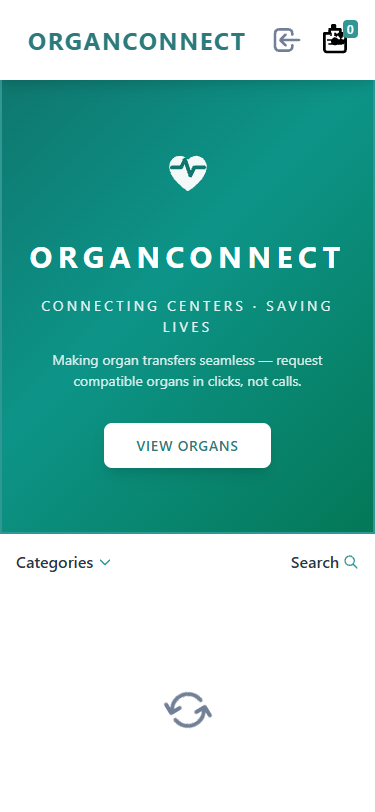
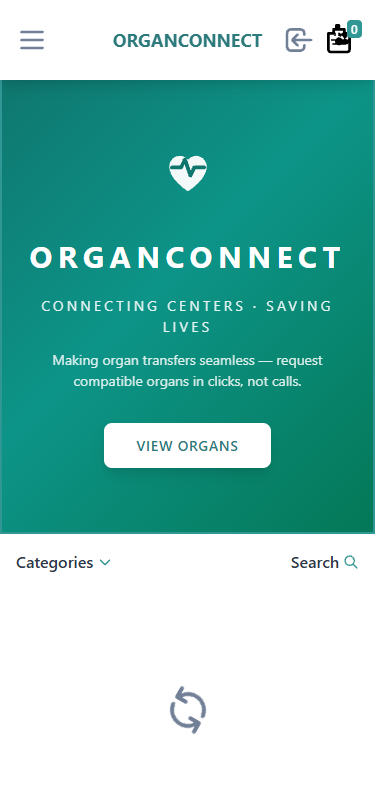
Fix Vercel deployment, API URL fallbacks, and responsive navbar

Changed region(s): [[0.0587, 0.0308, 0.8213, 0.0616], [0.44, 0.8313, 0.5573, 0.9236], [0.8507, 0.0308, 0.968, 0.0616]]

diff --git a/client/src/components/shop/partials/Navber.js b/client/src/components/shop/partials/Navber.js
@@ -52,10 +52,10 @@ const Navber = (props) => {
               Contact us
             </span> */}
           </div>
-          <div className="col-span-2 lg:hidden flex justify-items-stretch	 items-center">
+          <div className="col-span-1 lg:hidden flex items-center">
             <svg
               onClick={(e) => navberToggleOpen()}
-              className="col-span-1 lg:hidden w-8 h-8 cursor-pointer text-gray-600"
+              className="w-8 h-8 flex-none cursor-pointer text-gray-600"
               fill="none"
               stroke="currentColor"
               viewBox="0 0 24 24"
@@ -68,13 +68,14 @@ const Navber = (props) => {
                 d="M4 6h16M4 12h16M4 18h16"
               />
             </svg>
+          </div>
+          <div className="col-span-2 lg:hidden flex items-center justify-center">
             <span
               onClick={(e) => history.push("/")}
-              style={{ letterSpacing: "0.10rem" }}
-              className="flex items-center text-center font-bold uppercase text-teal-700 text-2xl cursor-pointer px-2"
+              className="flex items-center justify-center text-center font-bold uppercase text-teal-700 text-lg md:text-2xl whitespace-nowrap px-1 cursor-pointer"
             >
               <svg
-                className="w-7 h-7 mr-1"
+                className="hidden sm:block w-6 h-6 mr-1 flex-none"
                 viewBox="0 0 64 64"
                 fill="none"
                 xmlns="http://www.w3.org/2000/svg"
@@ -119,7 +120,7 @@ const Navber = (props) => {
             </svg>
             OrganConnect
           </div>
-          <div className="flex items-right col-span-2 lg:col-span-1 flex justify-end">
+          <div className="flex items-right col-span-1 lg:col-span-1 flex justify-end">
             {/*  WishList Page Button */}
             <div
               // onClick={(e) => history.push("/wish-list")}
@@ -175,7 +176,7 @@ const Navber = (props) => {
                           >
                             <span>
                             <svg
-  class="w-8 h-8 text-black hover:text-green-700"
+  class="w-8 h-8 text-black hover:text-teal-700"
   fill="none"
   stroke="currentColor"
   viewBox="0 0 24 24"
@@ -352,7 +353,7 @@ const Navber = (props) => {
               /* Login Modal Button */
               <div
                 onClick={(e) => loginModalOpen()}
-                className="cursor-pointer hover:bg-gray-200 px-2 py-2 rounded-lg"
+                className="cursor-pointer hover:bg-gray-200 px-1 sm:px-2 py-2 rounded-lg"
                 title="Login"
               >
                 <svg
@@ -374,11 +375,11 @@ const Navber = (props) => {
             {/* Cart Modal Button */}
             <div
               onClick={(e) => cartModalOpen()}
-              className="hover:bg-gray-200 px-2 py-2 rounded-lg relative cursor-pointer"
+              className="hover:bg-gray-200 px-1 sm:px-2 py-2 rounded-lg relative cursor-pointer"
               title="Organs"
             >
             <svg
-  class="w-8 h-8 text-black hover:text-green-700"
+  class="w-8 h-8 text-black hover:text-teal-700"
   fill="none"
   stroke="currentColor"
   viewBox="0 0 24 24"

diff --git a/client/src/components/admin/partials/AdminNavber.js b/client/src/components/admin/partials/AdminNavber.js
@@ -65,7 +65,7 @@ const AdminNavber = (props) => {
         <div className="lg:hidden flex items-center">
           <svg
             id="hamburgerBtn"
-            className="lg:hidden w-8 h-8 cursor-pointer text-gray-600"
+            className="lg:hidden w-8 h-8 flex-none cursor-pointer text-gray-600"
             fill="none"
             stroke="currentColor"
             viewBox="0 0 24 24"
@@ -81,7 +81,7 @@ const AdminNavber = (props) => {
           <span
             onClick={(e) => history.push("/admin/dashboard")}
             style={{ letterSpacing: "0.10rem" }}
-            className="flex items-center text-center font-bold uppercase text-teal-700 text-2xl cursor-pointer px-2"
+            className="flex items-center whitespace-nowrap text-center font-bold uppercase text-teal-700 text-xl md:text-2xl cursor-pointer px-2"
           >
             <svg
               className="w-7 h-7 mr-1"

diff --git a/server/server.js b/server/server.js
@@ -21,7 +21,11 @@ const { loginCheck } = require("./middleware/auth");
 const CreateAllFolder = require("./config/uploadFolderCreateScript");
 
 /* Create All Uploads Folder if not exists | For Uploading Images */
-CreateAllFolder();
+try {
+  CreateAllFolder();
+} catch (err) {
+  console.log("Skipping uploads folder creation (read-only filesystem)");
+}
 
 // Database Connection
 mongoose
@@ -54,8 +58,12 @@ app.use("/api", brainTreeRouter);
 app.use("/api/order", orderRouter);
 app.use("/api/customize", customizeRouter);
 
-// Run Server
+// Run Server (locally only — Vercel imports the app instead)
 const PORT = process.env.PORT || 8000;
-app.listen(PORT, () => {
-  console.log("Server is running on ", PORT);
-});
+if (require.main === module) {
+  app.listen(PORT, () => {
+    console.log("Server is running on ", PORT);
+  });
+}
+
+module.exports = app;

diff --git a/client/src/components/admin/orders/AllOrders.js b/client/src/components/admin/orders/AllOrders.js
@@ -4,7 +4,7 @@ import moment from "moment";
 import { OrderContext } from "./index";
 import { fetchData, editOrderReq, deleteOrderReq } from "./Actions";
 
-const apiURL = process.env.REACT_APP_API_URL;
+const apiURL = (process.env.REACT_APP_API_URL || "");
 
 // Assuming pName is a number representing hours
 
@@ -224,4 +224,4 @@ const CategoryTable = ({ order, editOrder }) => {
   );
 };
 
-export default AllCategory;
+export default AllCategory;

diff --git a/client/src/components/admin/products/EditProductModal.js b/client/src/components/admin/products/EditProductModal.js
@@ -2,7 +2,7 @@ import React, { Fragment, useContext, useState, useEffect } from "react";
 import { ProductContext } from "./index";
 import { editProduct, getAllProduct } from "./FetchApi";
 import { getAllCategory } from "../categories/FetchApi";
-const apiURL = process.env.REACT_APP_API_URL;
+const apiURL = (process.env.REACT_APP_API_URL || "");
 
 const EditProductModal = (props) => {
   const { data, dispatch } = useContext(ProductContext);

diff --git a/client/src/components/shop/productDetails/ProductDetailsSection.js b/client/src/components/shop/productDetails/ProductDetailsSection.js
@@ -12,7 +12,7 @@ import { isWishReq, unWishReq, isWish } from "../home/Mixins";
 import { updateQuantity, slideImage, addToCart, cartList } from "./Mixins";
 import { totalCost } from "../partials/Mixins";
 
-const apiURL = process.env.REACT_APP_API_URL;
+const apiURL = (process.env.REACT_APP_API_URL || "");
 
 const ProductDetailsSection = (props) => {
   let { id } = useParams();

diff --git a/client/src/components/admin/dashboardAdmin/Customize.js b/client/src/components/admin/dashboardAdmin/Customize.js
@@ -2,7 +2,7 @@ import React, { Fragment, useContext, useEffect } from "react";
 import { DashboardContext } from "./";
 import { uploadImage, sliderImages, deleteImage } from "./Action";
 
-const apiURL = process.env.REACT_APP_API_URL;
+const apiURL = (process.env.REACT_APP_API_URL || "");
 
 const Customize = () => {
   const { data, dispatch } = useContext(DashboardContext);

diff --git a/client/src/components/shop/home/SingleProduct.js b/client/src/components/shop/home/SingleProduct.js
@@ -4,7 +4,7 @@ import { getAllProduct } from "../../admin/products/FetchApi";
 import { HomeContext } from "./index";
 import { isWishReq, unWishReq, isWish } from "./Mixins";
 
-const apiURL = process.env.REACT_APP_API_URL;
+const apiURL = (process.env.REACT_APP_API_URL || "");
 
 const SingleProduct = (props) => {
   const { data, dispatch } = useContext(HomeContext);

diff --git a/client/src/components/shop/home/ProductCategoryDropdown.js b/client/src/components/shop/home/ProductCategoryDropdown.js
@@ -5,7 +5,7 @@ import { getAllCategory } from "../../admin/categories/FetchApi";
 import { getAllProduct, productByPrice } from "../../admin/products/FetchApi";
 import "./style.css";
 
-const apiURL = process.env.REACT_APP_API_URL;
+const apiURL = (process.env.REACT_APP_API_URL || "");
 
 const CategoryList = () => {
   const history = useHistory();

diff --git a/client/src/components/shop/home/ProductByCategory.js b/client/src/components/shop/home/ProductByCategory.js
@@ -3,7 +3,7 @@ import { useHistory, useParams } from "react-router-dom";
 import Layout from "../layout";
 import { productByCategory } from "../../admin/products/FetchApi";
 
-const apiURL = process.env.REACT_APP_API_URL;
+const apiURL = (process.env.REACT_APP_API_URL || "");
 
 const Submenu = ({ category }) => {
   const history = useHistory();

diff --git a/client/src/components/admin/categories/AllCategories.js b/client/src/components/admin/categories/AllCategories.js
@@ -3,7 +3,7 @@ import { getAllCategory, deleteCategory } from "./FetchApi";
 import { CategoryContext } from "./index";
 import moment from "moment";
 
-const apiURL = process.env.REACT_APP_API_URL;
+const apiURL = (process.env.REACT_APP_API_URL || "");
 
 const AllCategory = (props) => {
   const { data, dispatch } = useContext(CategoryContext);

diff --git a/client/src/components/shop/partials/CartModal.js b/client/src/components/shop/partials/CartModal.js
@@ -6,7 +6,7 @@ import { isAuthenticate } from "../auth/fetchApi";
 import { cartList } from "../productDetails/Mixins";
 import { subTotal, quantity, totalCost } from "./Mixins";
 
-const apiURL = process.env.REACT_APP_API_URL;
+const apiURL = (process.env.REACT_APP_API_URL || "");
 
 const CartModal = () => {
   const history = useHistory();
